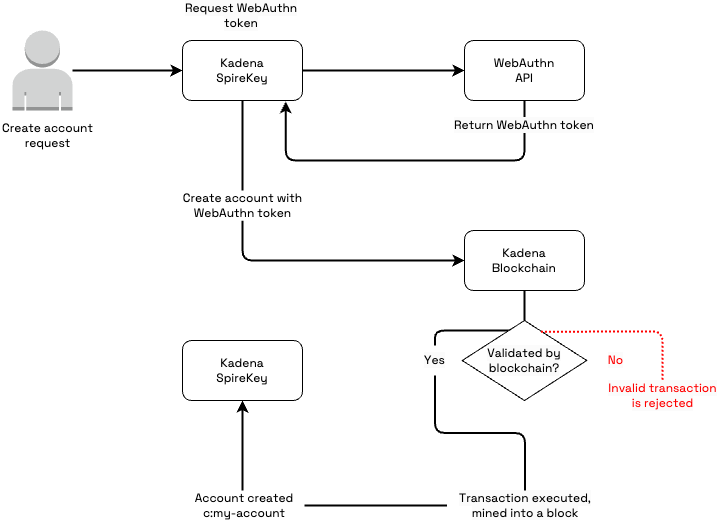
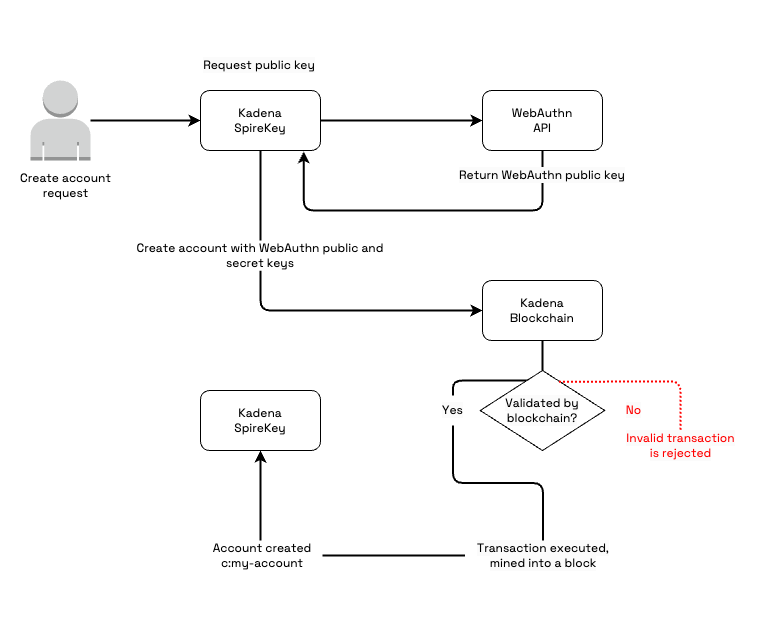
Update some out of date information, replace drawing

diff --git a/packages/apps/docs/src/docs/build/authentication/create-transactions.md b/packages/apps/docs/src/docs/build/authentication/create-transactions.md
@@ -21,7 +21,7 @@ In this guide you'll learn:
 
 - How to construct an unsigned transaction to support signing using a Kadena
   SpireKey account.
-- How to send unsigned transactions to the SpireKey wallet.
+- How to send unsigned transactions to the SpireKey URL for signing.
 - How to process the data you receive in signed transaction returned from
   Kadena SpireKey.
 
@@ -31,16 +31,10 @@ Transactions that can be signed using a Kadena SpireKey account are similar to
 transactions that are signed using other wallets. 
 At a high level, you construct
 the transaction with the appropriate information, format the information as a
-JSON request, and submit the JSON request to a Chainweb node endpoint. 
-For
-example, you can create an API request in a YAML file and use the
-`pact --apireq` command to convert the YAML file to an appropriate JSON
-representation of the transaction or you can construct a JSON object with the
-appropriate information within your application. 
+JSON request, and submit the JSON request to a Chainweb node endpoint.  
 
 However, transactions involving Kadena SpireKey accounts have some unique
-requirements, including the cryptographic algorithm used to generate the public
-and secret keys and separate WebAuthN-specific contracts to manage accounts and permissions.
+requirements.
 
 ### Public key generation
 
@@ -57,29 +51,18 @@ set to `WebAuthn` as its value when signing transactions.
 
 ### Account guard
 
-When users create an account for the `coin` contract or for other `fungible-v2`
-contracts, they provide an account name and a guard. In most cases, these
-accounts use **keysets** to enforce who must sign valid transactions and to
-prevent unauthorized signers from submitting transactions.
+When users create an account for the `coin` contract or for other `fungible-v2` contracts, they provide an account name and a guard. 
+As mentioned in [Account, keys, and principals](/learn/accounts), there are different types of guards, but **keysets** are the most commonly-used for accounts that hold assets. 
 
-However, Kadena SpireKey uses its own `webauthn-wallet` and `webauthn-guard`
-contracts to create, manage, and secure accounts instead of using the `coin` or
-`fungible-v2` contract. Kadena SpireKey accounts use a _capability_ defined in
-the `webauthn-guard` contract instead of a keyset to enforce signing rules for
-transactions. Capability guards use the `c:` prefix.
+Kadena SpireKey accounts are different in that they use a **capability** defined in the `webauthn-wallet` contract instead of a keyset to enforce the rules for signing transactions. 
+Because the `coin` contract can't bring this capability into scope when trying to debit an account, the `webauthn-wallet` contract implements its own `webauthn-wallet.transfer` function and custom `webauthn-wallet.GAS_PAYER` and `webauthn-wallet.TRANSFER` capabilities. 
 
-Because the `coin` contract can't bring this capability guard into scope when
-trying to debit an account, the `webauthn-wallet` contract implements its own
-`webauthn-wallet.transfer` function and custom `webauthn-wallet.GAS_PAYER` and
-`webauthn-wallet.TRANSFER` capabilities. You can use these custom capabilities
-in place of the corresponding `coin.GAS` and `coin.TRANSFER` capabilities in
-transactions to identify the guard required to debit an account.
+The `webauthn-wallet`  contract wraps the `coin` contract to bring the required capabilities into scope before calling the wrapped functions.
+You can use the `webauthn-wallet.GAS_PAYER` and `webauthn-wallet.TRANSFER` capabilities
+in place of the corresponding `coin.GAS` and `coin.TRANSFER` capabilities to satisfy the guard required to debit an account.
 
-The `webauthn-wallet` contract implements these functions and capabilities for you to use instead of the corresponding functions and capabilities in the `coin` contract because the `coin` contract isn't likely to be updated to accommodate `webauthn-wallet` accounts. 
-Other contracts should be compatible with `webauthn-wallet` accounts by default.
-
-The following is an example of what an unsigned transfer transaction from
-a Kadena SpireKey account might look like for the `n_eef68e581f767dd66c4d4c39ed922be944ede505` principal namespace:
+The following is a simplified example of what an unsigned transfer transaction from
+a Kadena SpireKey account might look like with the `cmd` field in non-stringified JSON format for readability:
 
 ```json
 {
@@ -134,68 +117,69 @@ a Kadena SpireKey account might look like for the `n_eef68e581f767dd66c4d4c39ed9
 }
 ```
 
-In this example, the `n_eef68e581f767dd66c4d4c39ed922be944ede505` namespace is the namespace for Kadena SpireKey deployed on the Kadena test and main networks.
-If you deploy your own versions of the `webauthn-wallet` and `webauthn-guard` contracts, you'll use a different namespace. 
-To construct a transaction similar to this example in your application, you can use the `c:` account and `WEBAUTHN` public key returned by Kadena SpireKey in the `accountName` and `credentials` properties from the account details for a user object.
+In this example, the `n_eef68e581f767dd66c4d4c39ed922be944ede505` namespace is the namespace for Kadena SpireKey where the `webauthn-wallet` and `webauthn-guard` contracts are deployed on the Kadena test and main networks.
+The transaction sender is a Kadena SpireKey account with the account name `c:bF51UeSqhrSjEET1yUWBYabDTfujlAZke4R70I4rrHc`.
 
-## Send data to the SpireKey wallet
+To construct a transaction similar to this example in your application, you use the `c:` account and `WEBAUTHN` public key returned by Kadena SpireKey in the `accountName` and `credentials` properties from the account details for a user object.
 
-After you construct the unsigned transaction in your application, you can send
-that data along with a `returnUrl` to Kadena SpireKey. Kadena
-SpireKey handles the signing process and redirects users back to your
-application. As with registration and authentication, the information is passed
-using URL parameters.
+## Send transactions to Kadena SpireKey
 
-You can use the same host that you used to register or connect to an account and navigate to
-the `sign` endpoint. For example, https://spirekey.kadena.io/sign.
+After you construct the unsigned transaction in your application, you need to `base64` encode the stringified JSON of the transaction and send a signing request to Kadena SpireKey.
 
-In the following table, you can see the parameters that are currently accepted by Kadena SpireKey.
+To construct the route:
+
+1. Stringify the unsigned transaction (tx) you've prepared:
+   
+   ```typesecript
+   const encodedTx = btoa(JSON.stringify(tx));
+   ```
+   
+2. Use the `encodeURIComponent` function to encode the return URL:
+
+   ```typescript
+   const encodedReturnUrl = encodeURIComponent(RETURN_URL);
+   ```
+
+1. Construct the request URL using the `encodedTx` and `encodedReturnUrl` to send the transaction to Kadena SpireKey:
+   
+   ```typescript
+   const sendTransactionUrl = `https://spirekey.kadena.io/sign#transaction=${encodedTx}&returnUrl=${encodedReturnUrl}`;
+   ```
+
+Because transaction strings can be longer than what is accepted in `searchParameters`, you should send transactions to the `/sign` endpoint using the anchor hashtag (`#`) instead of the `searchParameters` question mark (`?`). 
+
+For example, a signature request might look similar to this:
+
+https://spirekey.kadena.io/sign#transaction=encodedTx&returnUrl=www.mydapp.com
+
+The following table describes the parameters that you can include in your signing request:
 
 | Parameter | Type | Required | Description |
 | --------- | ---- | -------- | ----------- |
 | `transaction` | string  | Required | A base64 encoded string of the unsigned transaction. |
-| `returnUrl` | string  | Required | The url, encoded as a uriComponent, that the wallet should redirect users to after they have signed the transaction. |
-| `translations` | string  | Optional | Custom descriptions that explain what capabilities or operations that the user is user signing for. |
-| `optimistic` | boolean | Optional | Allows applications to continue the transaction flows without having to wait for the transaction to be confirmed on the blockchain. When this parameter is included, `pendingTxIds` are returned so that the application can keep track of the status of the submitted transactions and update the UI accordingly. For more information about the optimistic transaction flow, see [Optimistic account onboarding](/build/authentication/integrate#optimistic-account-onboardingh-416162207). |
+| `returnUrl` | string  | Required | The url, encoded as a uriComponent, that the Kadena SpireKey should redirect users to after they have signed the transaction. |
+| `translations` | string  | Optional | Custom descriptions that explain what capabilities or operations that the user is signing for. |
+| `optimistic` | boolean | Optional | Allows applications to continue transaction workflows without having to wait for the transaction to be confirmed on the blockchain. When this parameter is included, `pendingTxIds` are returned so that the application can keep track of the status of the submitted transactions and update the UI accordingly. For more information about the optimistic transaction flow, see [Optimistic account onboarding](/build/authentication/integrate#optimistic-account-onboardingh-416162207). |
 
-The following is an example of how you would construct the route:
+After you construct the request with the required parameters, you can connect to Kadena SpireKey to enable the user to sign the transaction.
 
-```ts
-// tx is the unsigned transaction you constructed
-const encodedTx = btoa(JSON.stringify(tx));
+## Verify the signed transaction
 
-// Use`encodeURIComponent` so that the return url is still readable
-const encodedReturnUrl = encodeURIComponent(RETURN_URL);
+After all of the signatures for a transaction have been successfully collected, the user is redirected to the `returnUrl` you provided. 
+The signed transaction and optional parameters are returned as parameters using the anchor hashtag (`#`). 
 
-// The url you need to navigate to sign and return the transaction
-const sendTransactionUrl = `https://spirekey.kadena.io/sign?transaction=${encodedTx}&returnUrl=${encodedReturnUrl}`;
-```
+If the transaction was not successfully signed, the unsigned transaction is returned.
 
-After you construct the route to the wallet with the required parameters, you
-can navigate to the wallet to handle the signing.
+| Parameter | Type | Required | Description |
+| --------- | ---- | -------- | ----------- |
+| `transaction` | string | Required | A base64 encoded string of the signed or unsigned transaction. |
+| `pendingTxIds`| string[] | Optional | Pending transaction identifiers that enable the application to move forward without waiting for the transaction to be confirmed on the blockchain. |
 
-## Verify the signed transaction from the SpireKey wallet
+To verify that a transaction has been successfully signed, you can check the `sigs` field in the transaction. 
+If the field has undefined signatures, you won't be able to submit the transaction.
 
-After all signatures for a transaction have been successfully collected from the
-wallet, the user is redirected to the `returnUrl` you provided. The signed
-transaction and optional parameters are included as URL parameters. If the
-transaction was not successfully signed, the unsigned transaction is returned in
-the URL parameters.
-
-| Parameter      | Type     | Required | Description                                                                                                                                       |
-| -------------- | -------- | -------- | ------------------------------------------------------------------------------------------------------------------------------------------------- |
-| `transaction`  | string   | Required | A base64 encoded string of the signed or unsigned transaction.                                                                                    |
-| `pendingTxIds` | string[] | Optional | Pending transaction identifiers that enable the application to move forward without waiting for the transaction to be confirmed on the blockchain. |
-
-To verify that a transaction has been successfully signed, you can check the
-`sigs` field in the transaction. If the field has undefined signatures, you
-won't be able to submit the transaction.
-
-If the transaction has been successfully signed, it is valid for a limited
-period of time as specified in the `ttl` value in the transaction
-`publicMeta` data. During this period of time, the application can call the
-`local/preflight=true` endpoint to check whether the transaction is valid, then
-send it to the blockchain to be executed.
+If the transaction has been successfully signed, it is valid for a limited period of time as specified in the `ttl` value in the transaction `publicMeta` data.
+During this period of time, the application can call the `local/preflight=true` endpoint to check whether the transaction is valid, then send it to the blockchain to be executed.
 
 After the transaction is submitted to the blockchain, you can check the transaction status using the request key and chainweb-data API or the Kadena client. 
 For example, to check the status of a transaction sent to the Kadena test network using the request key `uOyDol7dZTd96kzUhGz_ZPURIRYOEocR8IGZKuO6T6Y`:
@@ -211,4 +195,3 @@ const results = pollStatus(transactionDescriptors, {
     },
 });
 ```
-

diff --git a/packages/apps/docs/src/docs/build/authentication/integrate-an-app.md b/packages/apps/docs/src/docs/build/authentication/integrate-an-app.md
@@ -38,7 +38,7 @@ You can connect to Kadena SpireKey and request account information from an appli
 The following example illustrates an application running locally on
 `http://localhost:3000` that's deployed on the `testnet04` network:
 
-https://spirekey.kadena.io/connect?returnUrl=http://localhost:3000&networkId=testnet04
+https://spirekey.kadena.io/connect?returnUrl=http:/localhost:3000&networkId=testnet04
 
 As you see in this example, the `returnUrl` is a URL-encoded **query parameter** that Kadena SpireKey uses to redirect users after they connect. 
 When users are redirected to the `/connect` endpoint, Kadena SpireKey checks whether they have an account. 
@@ -109,10 +109,10 @@ details, you should see the following properties:
 
 | Property | Description |
 | ------------- | ------------------------- |
-| alias         | Specifies an alias to use as the display name for the account. |
+| alias | Specifies an alias to use as the display name for the account. |
 | accountName   | Specifies the full public name of the account on the blockchain. It is a string consisting of a `c:` prefix followed by a hash. |
-| credentials   | Contains an array of credential objects. For Kadena SpireKey accounts, there is always at least one credential in the array. The `publicKey` in the `credential` property holds the public key of the user's WebAuthn credential. The private key is never included in the `user` object. The private key is encrypted and stored in a security enclave on the user's device. |
-| pendingTxIds  | Specifies the transaction identifier for users who registered to create a new account from your application. You can use the chainweb-data API to poll the status of this transaction to ensure that you don't create transactions for the user to sign before the account is confirmed on the blockchain. If the `pendingTxIds` property is empty, the account creation transaction completed before the user returned to your application. |
+| credentials | Contains an array of credential objects. For Kadena SpireKey accounts, there is always at least one credential in the array. The `publicKey` in the `credential` property holds the public key of the user's WebAuthn credential. The private key is never included in the `user` object. The private key is encrypted and stored in a security enclave on the user's device. |
+| pendingTxIds | Specifies the transaction identifier for users who registered to create a new account from your application. You can use the chainweb-data API to poll the status of this transaction to ensure that you don't create transactions for the user to sign before the account is confirmed on the blockchain. If the `pendingTxIds` property is empty, the account creation transaction completed before the user returned to your application. |
 
 ### Poll for pending account creation
 
@@ -134,4 +134,33 @@ If you add the `/connect` endpoint for Kadena SpireKey to your application, Kade
 The following diagram illustrates the basic workflow for registering an account
 using Kadena SpireKey.
 
-![Kadena SpireKey registration workflow](/assets/docs/register-spirekey-account.png)
+```mermaid
+---
+title:  Registration workflow
+---
+flowchart TD
+    user --Create account request--> a
+    a --Request public key--> b
+    b --- c
+    b --Return public key--> a
+    a --Create account using the public key--> d
+    d --- e
+    e -. Invalid transaction .-> h
+    e --yes--> f
+    f --- i
+    i --> h
+  
+    user["User 👤"]
+    a["Kadena SpireKey 👛"]
+    b["WebAuthn API 🔑"]
+    c(["Generate public and secret key pair"])
+    d["Kadena blockchain ⛓"]
+    e{"Validated
+        by
+        blockchain?"}
+    f(["Transaction executed,
+        mined into a block ⛓"])
+    i(["Return account created 
+           c:my-account"])
+    h["Kadena SpireKey 👛"]
+```

diff --git a/packages/apps/docs/src/docs/reference/spirekey-ref.md b/packages/apps/docs/src/docs/reference/spirekey-ref.md
@@ -44,7 +44,7 @@ If you want to require an account to be created before users can interact with y
 ### Return value
 
 After connecting to an account in SpireKey, users are redirected to the `returnUrl` you specify for your application. 
-As part of the redirection, SpireKey appends a `user` object in the `searchParameters`. This object describes information you can use to address the user or to prepare a transaction.
+As part of the redirection, SpireKey appends a `user` object in the `searchParameters`. This object contains information you can use to address the user or to prepare a transaction.
 
 #### User
 
@@ -76,19 +76,19 @@ When your transaction is ready to be signed, you need to `base64` encode the str
 
 Transactions can grow in size well beyond what is accepted in
 `searchParameters`. To enable users to sign these transactions, you should send
-the transaction parameters to the SpireKey endpoint using the anchor hashtag (#) instead of the searchParameter question mark (?). For example, a signature request might look like this:
+the transaction parameters to the SpireKey `/sign` endpoint using the anchor hashtag (#) instead of the searchParameter question mark (?). For example, a signature request might look like this:
 `https://spirekey.kadena.io/sign#transaction=encodedTx&returnUrl=www.mydapp.com`
 
-| Parameter   | Type   | Description                                              |
-| :---------- | :----- | :------------------------------------------------------- |
-| transaction | string | Specifies the `base64` encoded JSON stringified transaction object.    |
-| returnUrl   | string |  Specifies the URL the user needs to be redirected to after signing. |
+| Parameter | Type | Description |
+| :-------- | :--- | :---------- |
+| transaction | string | Specifies the `base64` encoded JSON stringified transaction object. |
+| returnUrl | string | Specifies the URL the user needs to be redirected to after signing. |
 
 Signature requests can include an explanation of what the user is signing for. 
 If the explanation is accepted and the user consents by signing the transaction, the signed transaction is returned to the application as a parameter in the return URL following an anchor hashtag (#).
 
 You can then collect or combine additional signatures, as required, to finalize the transaction for execution. 
 
-| Parameter   | Type   | Description                                          |
-| :---------- | :----- | :--------------------------------------------------- |
+| Parameter | Type | Description |
+| :-------- | :--- | :---------- |
 | transaction | string | Specifies the `base64` encoded JSON stringified transaction object. |

diff --git a/packages/apps/docs/src/docs/build/authentication/recover-account.md b/packages/apps/docs/src/docs/build/authentication/recover-account.md
@@ -159,10 +159,10 @@ credential identifier retrieved to find the event that was emitted when the
 user's device was added to an account. You can find the event by calling the
 chainweb-data API endpoint `/txs/events` with the following query parameters.
 
-| Parameter  | Description                                                                                                                                                                                                                                                                                         |
-| :--------- | :-------------------------------------------------------------------------------------------------------------------------------------------------------------------------------------------------------------------------------------------------------------------------------------------------- |
-| param      | Specifies the credential identifier for the passkey selected by the user.                                                                                                                                                                                                                           |
-| name       | Specifies the name of the event. In this case, the REGISTER_DEVICE event.                                                                                                                                                                                                                           |
+| Parameter | Description |
+| :-------- | :---------- |
+| param | Specifies the credential identifier for the passkey selected by the user. |
+| name | Specifies the name of the event. In this case, the REGISTER_DEVICE event. |
 | modulename | Specifies the name of the module that emitted the event. In this case, the module `webauthn-guard` prefixed with the module namespace. For example, the namespace and module for Kadena SpireKey running on the Kadena test network is `n_eef68e581f767dd66c4d4c39ed922be944ede505.webauthn-guard`. |
 
 The following code example extends the previous example with the code for

diff --git a/packages/apps/docs/src/docs/build/authentication/register-an-account.md b/packages/apps/docs/src/docs/build/authentication/register-an-account.md
@@ -15,7 +15,7 @@ layout: full
 Whether you're a user or developer, creating a Kadena SpireKey account is the
 first step to using simplified WebAuthn authentication and authorization
 services. Registering for an account stores the account information you provide
-on the blockchain after registration is complete. Your secret information is
+on the blockchain after registration is complete. Your secret information—biometric or otherwise—is
 encrypted and stored on the device you use to register. 
 
 No secret information is stored on the blockchain or in Kadena SpireKey.
